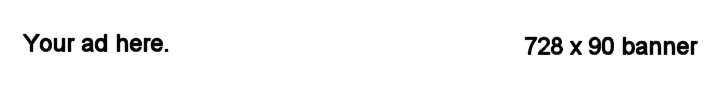
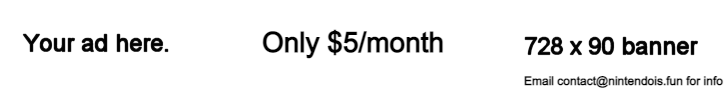
.

Changed region(s): [[0.3626, 0.3333, 0.6346, 0.6444], [0.6951, 0.8444, 0.9973, 0.9778]]

diff --git a/index.html b/index.html
@@ -244,3 +244,8 @@
  <h4>Game Name</h4>
  <a href="http://www.google.com" target="_parent"><button class="colored">Play!</button></a>
 </card>
+<div class="cs-height_90 cs-height_lg_80"></div>
+<footer>
+  <h2>for support, email contact@nintendois.fun
+  </h2>
+</footer>
